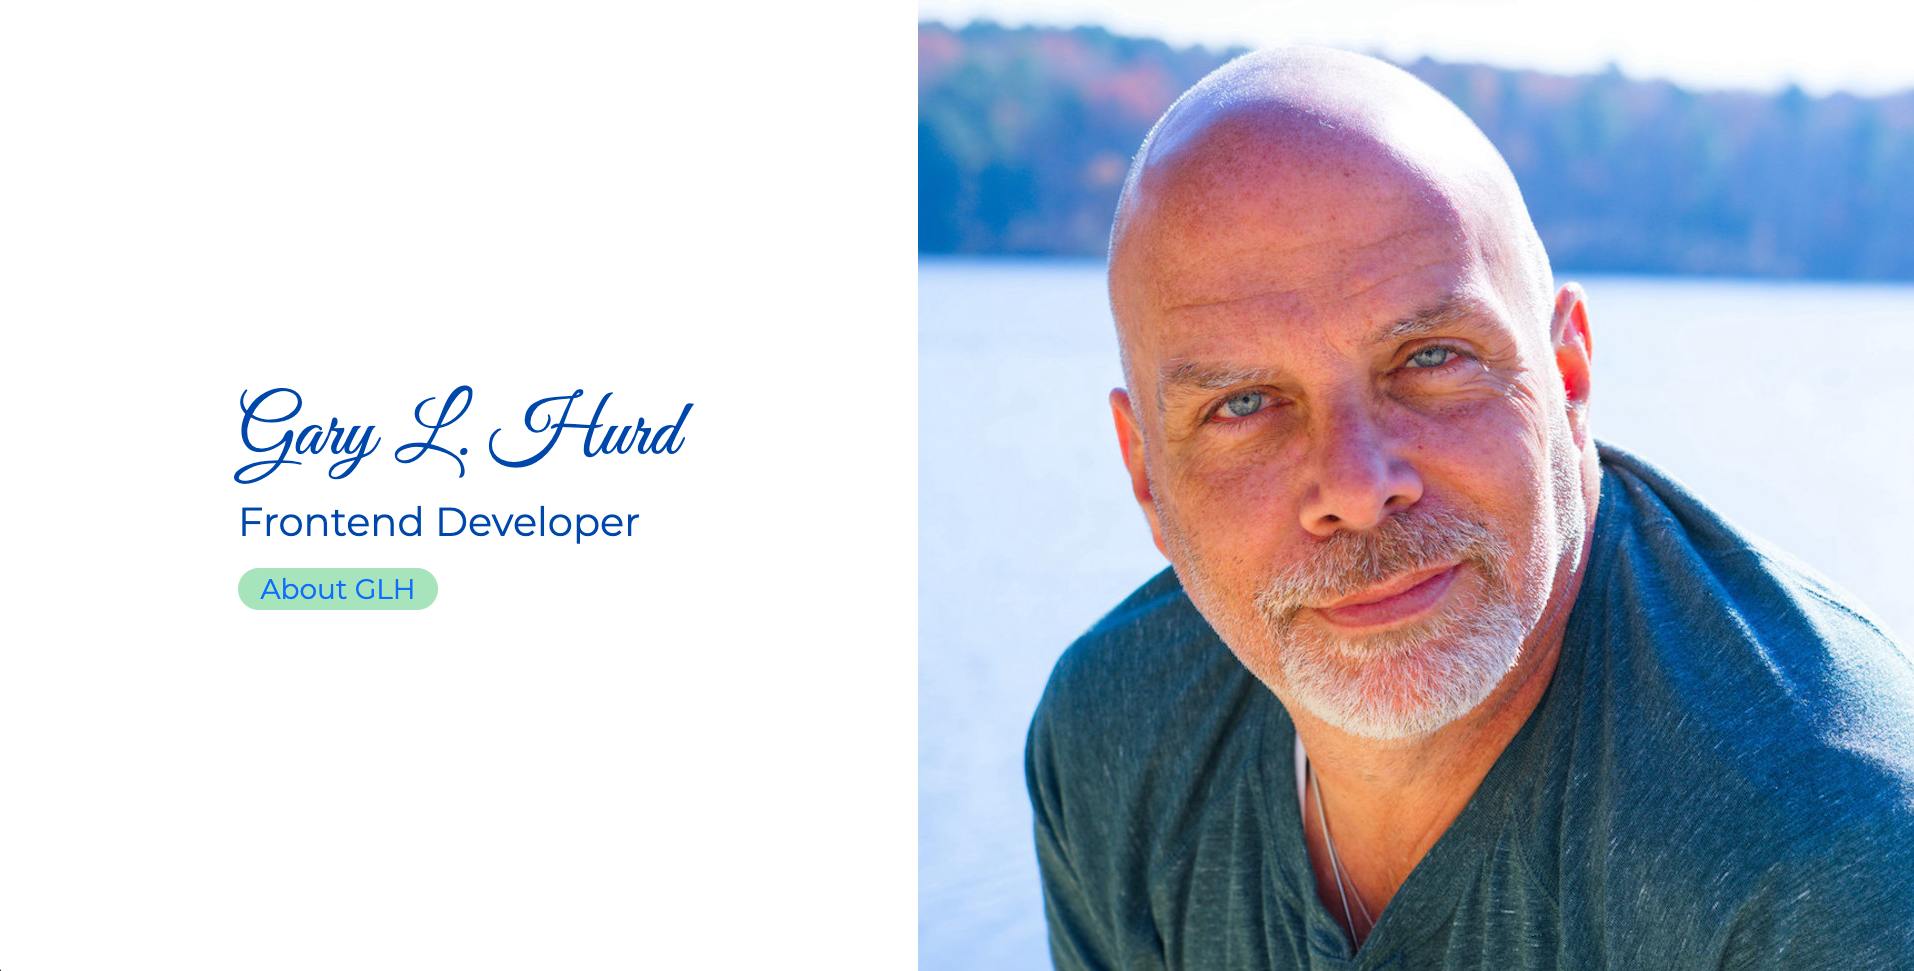
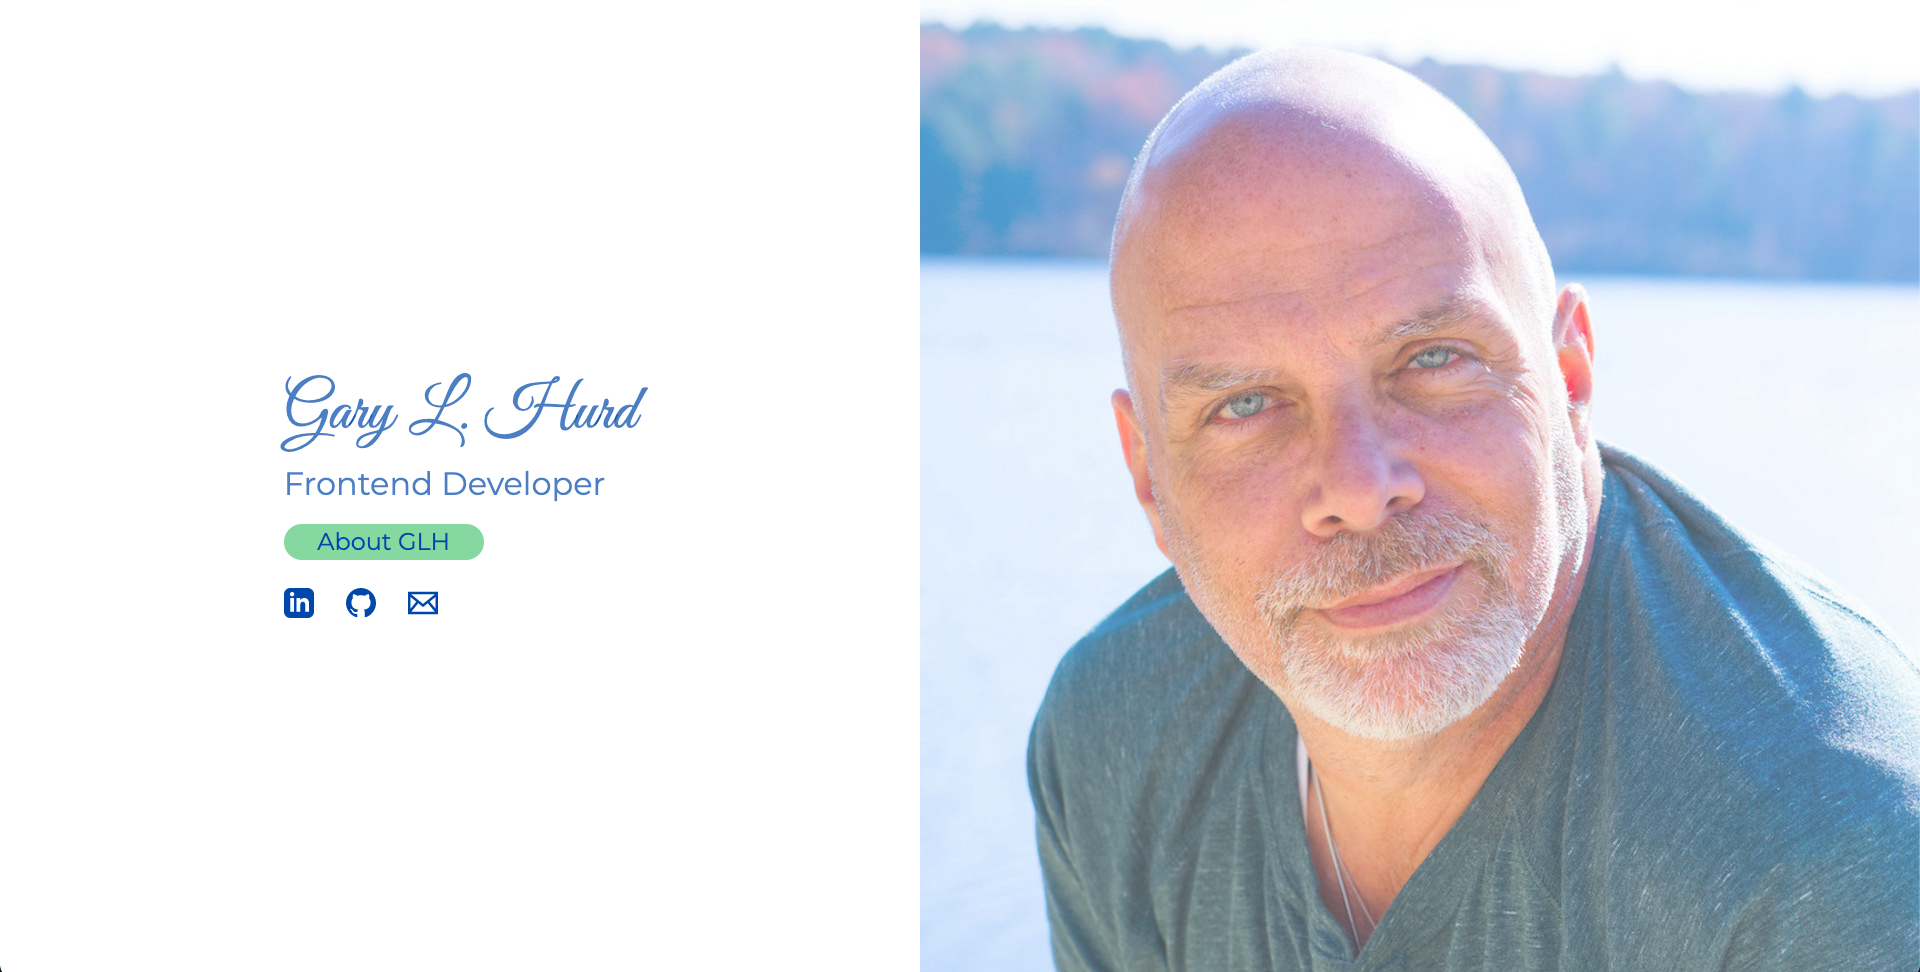
mobile tweak and images removal

diff --git a/src/index.css b/src/index.css
@@ -8,7 +8,7 @@ rgb(80,200,120)
 /*     GLOBAL     */
 body{
     font-family: 'Montserrat', sans-serif;
-    color: rgb(0,71,171);
+    color: rgba(0,71,171, .7);
 }
 a{
     color: rgb(0,71,171);
@@ -36,6 +36,10 @@ nav{
     box-shadow: 31px 31px 21px -30px #0047ab;
 }
 
+img{
+    object-fit: cover;
+}
+
 /*     Sections Hero     */
 .hero{
    display: flex;
@@ -47,10 +51,15 @@ nav{
 .hero-text{
    margin: 0 auto;
    font-size: 2rem;
+
 }
 .hero-text h1{
     font-family: 'Great Vibes', cursive;
     font-size: 4rem;
+}
+
+.heroImg {
+    opacity: .7;
 }
 
 /*     Sections About Me     */
@@ -138,4 +147,66 @@ nav{
 }
 .icon{
     padding-right: 2rem;
+}
+
+@media (max-width: 1020px){
+    .hero-text{
+        padding-top: 2rem;
+        margin: 1rem auto;
+        text-align: center;
+    }
+    .heroImg{
+        display: none;
+    }
+    .hero-text h1{
+        font-family: 'Montserrat', sans-serif;
+        font-size: 3rem;
+    }
+    .myWork h2{
+        font-family: 'Montserrat', sans-serif;
+        font-size: 2rem;
+    }
+     .aboutMe h2, h3{
+        display: none;
+    }
+    .navbar{
+        display: none;
+    }
+    .aboutMe{
+        height: 50vh;
+    }
+    .myWork-header{
+        margin-bottom: 2rem;
+        text-align: center;
+    }
+    .mySkillset{
+        height: 50vh;
+        padding: 0;
+        margin: 0;
+        background-color: rgba(80,200,120, .1);
+    }
+    .mySkillsetIcons{
+        
+    }
+    .mySkillset-header{
+        font-family: 'Montserrat', sans-serif;
+        font-size: 2rem;
+    }
+    
+    .skillSVG{
+        width: 50px;
+        height: 50px;
+    }
+    .button{
+        width: 200px;
+        text-align: center;
+        background-color:rgba(80,200,120, .7); 
+        border-radius: 100px;
+        font-size: 1.5rem;
+        margin: 0 auto;
+    }
+    .social1{
+        justify-content: center; 
+        margin-top: 1rem;
+    }
 }

diff --git a/index.html b/index.html
@@ -22,7 +22,7 @@
             </div>
         </div>
          <div class="hero-img">
-            <img src="/src/images/glh_hero_pic.jpg" alt="Gary L. Hurd Headshot">
+            <img class="heroImg" src="/src/images/glh_hero_pic.jpg" alt="Gary L. Hurd Headshot">
          </div>
          
     </div>
@@ -141,13 +141,13 @@
 <section class="mySkillset">
     <h2 class="mySkillset-header">Gary L. Hurd's Skillset</h2>
     <div class="mySkillsetIcons">
-        <div><img class="skillSVG" src="/src/images/figma-1.svg" alt=""></div>
+        <div><img class="skillSVG" src="/src/images/figma-1.png" alt=""></div>
         <div><img class="skillSVG" src="/src/images/html5.svg" alt=""></div>
         <div><img class="skillSVG" src="/src/images/css3.svg" alt=""></div>
         <div><img class="skillSVG" src="/src/images/bootstrap-5-1.svg" alt=""></div>
         <div><img class="skillSVG" src="/src/images/logo-javascript.svg" alt=""></div>
         <div><img class="skillSVG" src="/src/images/nodejs-1.svg" alt=""></div>
-        <div><img class="skillSVG" src="/src/images/mongodb.svg" alt=""></div>
+        <div><img class="skillSVG" src="/src/images/mongodb.jpeg" alt=""></div>
     </div>
 </section>
 <footer>
